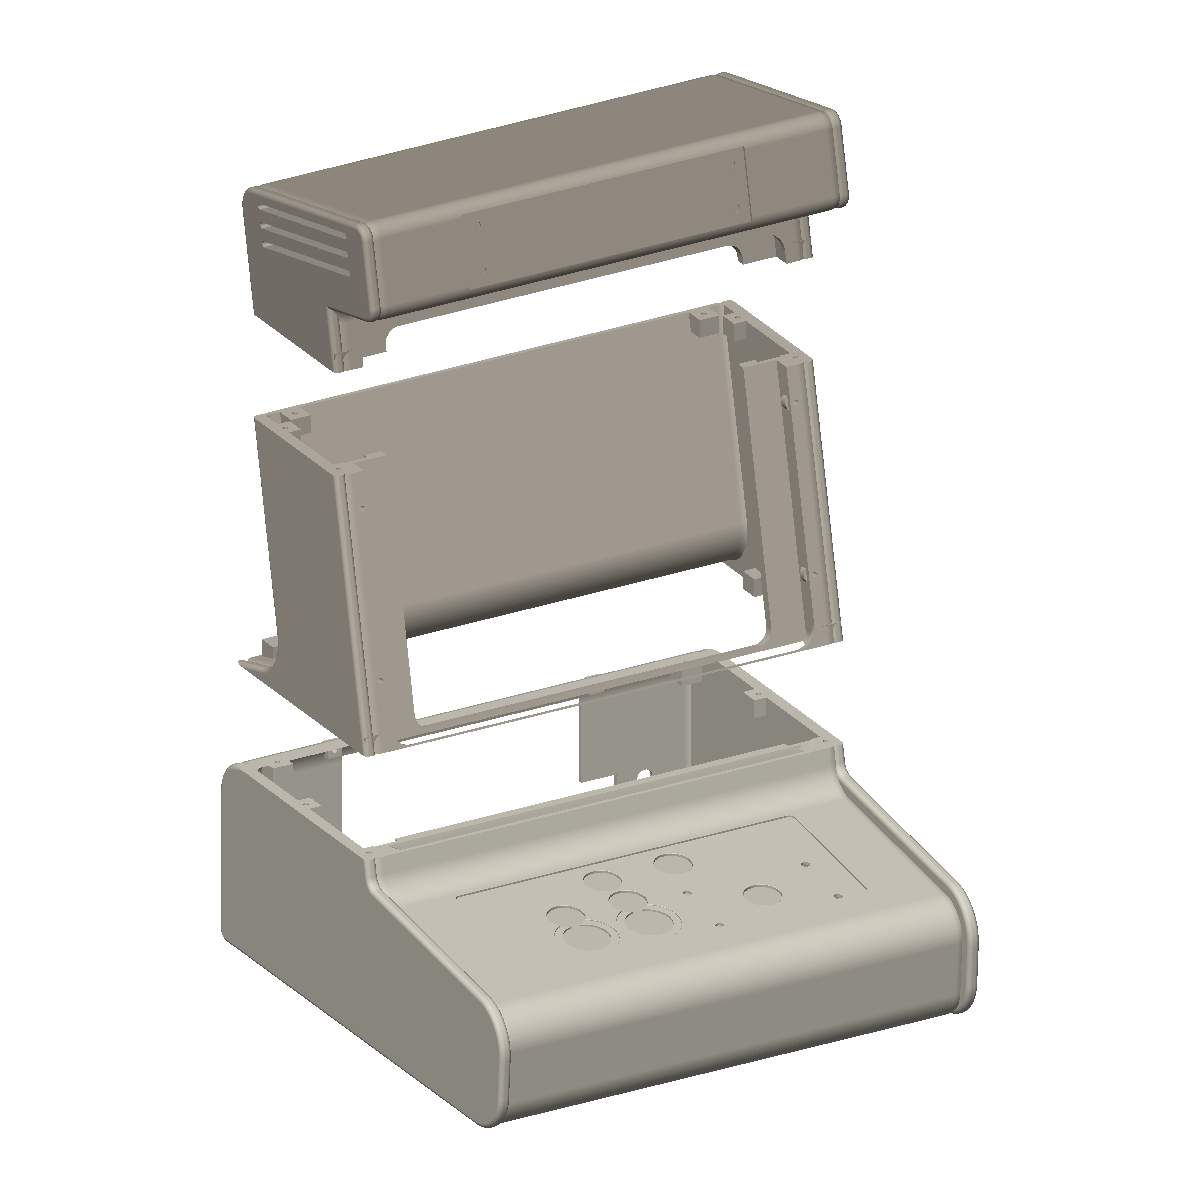
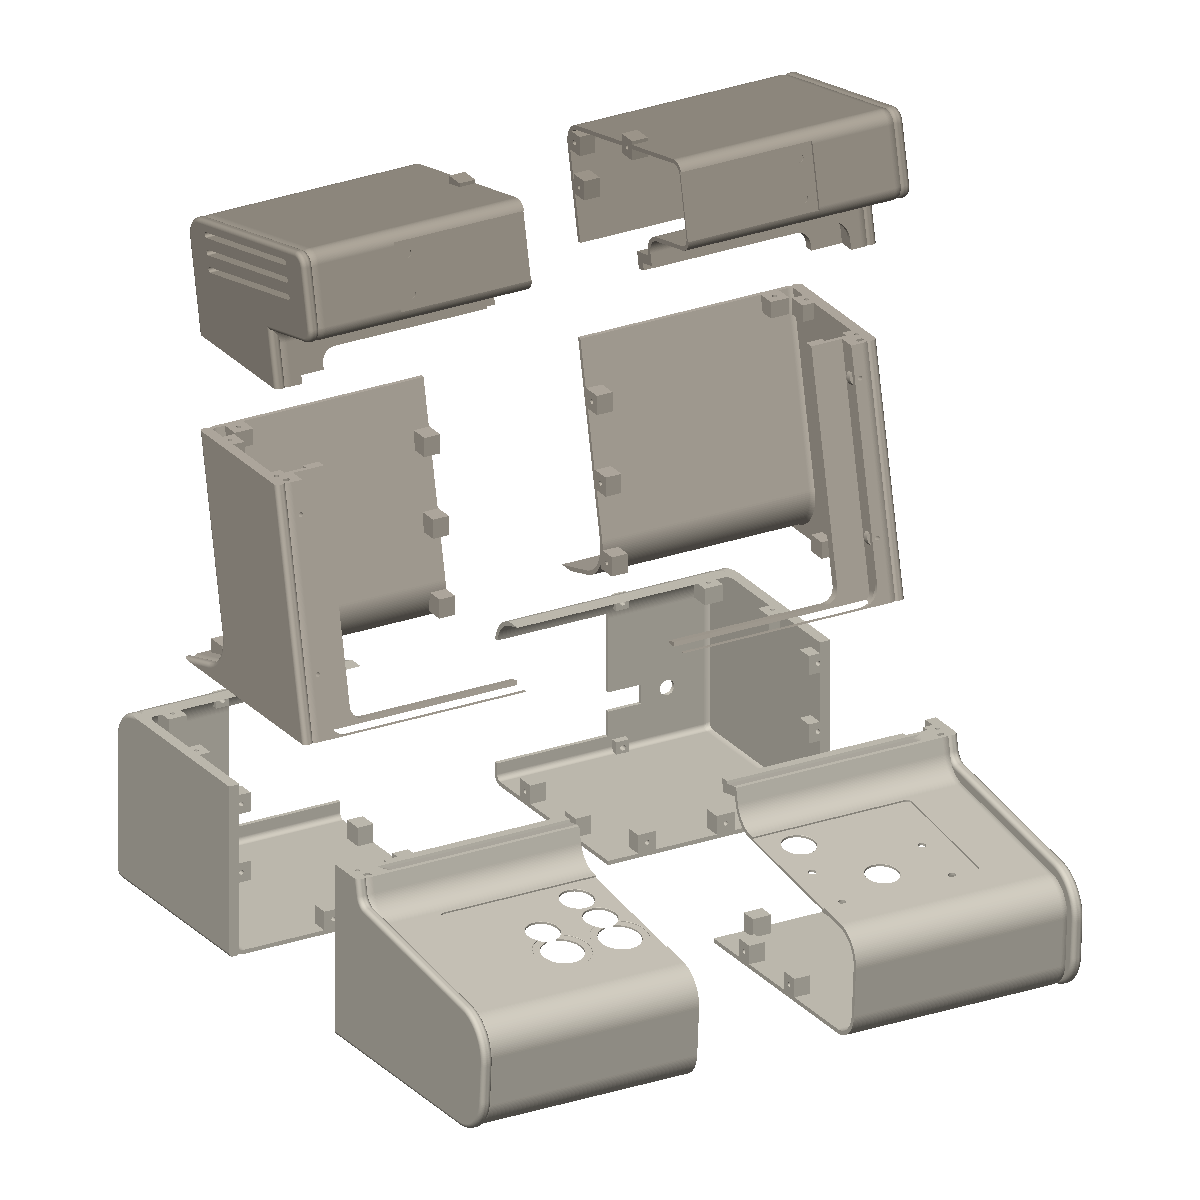
hardware iter 35: 8-part split for 256mm beds (PETG prototype path)
- parts.py: split_vertical on + new base front/back split (y=190) =>
  4 base quarters + mid/hood halves, all <=197mm, fit 256mm beds
- joints: boss-block M3 insert joints on the new F/B seam, screws
  driven from the rear hatch; base v-seam joints moved off y=190
- fix: seam-joint placement now probes the real solid for the wall
  inner face (neck-corner blend pulled the actual wall ~2mm inside
  the polyline estimate -> floating blocks, mid_l bodies=2)
- BOM: prototype print order section (parts, PETG, fastener count)

Changed region(s): [[0.0925, 0.0617, 0.925, 0.9558], [0.4625, 0.8942, 0.555, 0.925], [0.3392, 0.8942, 0.37, 0.925]]

diff --git a/hardware/parts.py b/hardware/parts.py
@@ -5,6 +5,9 @@ Split scheme (all parametric):
     HOOD (split_z_hood..top)
   - optional vertical split at x=0 => 6 parts that fit a 360 mm bed
     (full-width parts need a >=530 mm machine or the sheet-metal path)
+  - optional front/back split of the base at y=split_y_base => 8 parts that
+    fit a 256 mm bed (Bambu/Prusa class): base quarters ~170x180x125,
+    mid/hood halves ~170x185x175. Prototype path: PETG anywhere.
 
 Joints: recessed boss block pairs at every seam — M3 heat-set-insert pilot
 (4.2 mm x 7 mm, verified dims) in one half, M3 clearance through-hole in the
@@ -29,6 +32,7 @@ from build123d import (
     Pos,
     RectangleRounded,
     Rot,
+    Sphere,
     export_step,
     export_stl,
     extrude,
@@ -41,12 +45,16 @@ from render import render_parts
 PARTS_DIR = OUT_DIR / "parts"
 
 SPLIT = {
-    "split_vertical": False,       # 340 mm parts fit a 360 bed whole
+    "split_vertical": True,        # x=0 split: halves fit modest beds
+    "split_base_y": True,          # front/back split of the base layer =>
+                                   # 8 parts, all fit a 256 mm bed
+    "split_y_base": 190.0,         # base front|rear seam (clear of the ribs,
+                                   # which end ~25 mm behind the control deck)
     "split_z_deck": 125.0,         # base | face-column seam (clear of the
                                    # R20 seam blend; 105 left a wall sliver)
     "split_z_hood": 300.0,         # face-column | hood seam (below the chin and
                                    # the hood floor / back-wall junction ~304)
-    "print_bed": 360.0,            # mm, for the fit check
+    "print_bed": 256.0,            # mm, for the fit check (Bambu/Prusa class)
     # --- joints -----------------------------------------------------------
     "joint_block": 14.0,           # mm boss cross-section (Y/Z or X faces)
     "joint_depth": 12.0,           # mm boss depth from the seam face
@@ -67,10 +75,16 @@ SPLIT = {
                          (145, "rear"), (-162, "front"), (162, "front")],
     # vertical-seam joint positions (y, z); y=None = auto (rear wall at z)
     # (used only when split_vertical is on; names must NOT collide with the
-    # horizontal-seam lists above)
-    "base_v_seam_joints": [(120, 9.5), (190, 9.5), (260, 9.5)],   # into floor
+    # horizontal-seam lists above). Base entries must stay clear of
+    # split_y_base so the F/B seam never slices a block.
+    "base_v_seam_joints": [(90, 9.5), (150, 9.5), (240, 9.5), (300, 9.5)],
     "mid_v_seam_joints": [(None, 150), (None, 205), (None, 260)],
     "hood_v_seam_joints": [(None, 340), (None, 370), (None, 395)],
+    # base front/back seam at y=split_y_base: (|x|, z) positions, mirrored
+    # per L/R half. z=9.5 blocks fuse into the floor, x=160.5 blocks embed
+    # 0.5 mm into the side walls. Screws drive from the rear (hatch access)
+    # into inserts in the front quarters.
+    "base_y_seam_joints": [(30, 9.5), (90, 9.5), (160.5, 60), (160.5, 110)],
 }
 
 # --- CRT funnel insert + trim ring (printed part, black PETG) --------------
@@ -205,30 +219,50 @@ def _wall_y(z, pick):
     return best
 
 
-def rear_joint_y(z):
-    """Y for a seam-joint block fusing into the rear wall at height z:
-    in past the wall and half a block, embedding ~0.5 mm (the neck taper
-    moves the rear wall; static y values end up in air)."""
-    return _wall_y(z, max) - CAB["wall"] - SPLIT["joint_block"] / 2 + 0.5
+def _probe_mat(solid, x, y, z):
+    inter = solid & Pos(x, y, z) * Sphere(0.05)
+    return bool(inter) and sum(s.volume for s in inter.solids()) > 0
 
 
-def front_joint_y(z):
-    """Same against the front (display-face) wall — the face y at a given
-    z moves with display_tilt_deg."""
-    return _wall_y(z, min) + CAB["wall"] + SPLIT["joint_block"] / 2 - 0.5
+def _wall_face_y(solid, x, z, pick):
+    """Inner-face y of the rear (pick=max) or front (pick=min) wall at
+    (x, z): profile estimate refined by probing the real solid. Slanted-corner
+    blends (neck, chin) pull the actual wall in a couple mm from the polyline
+    offset, which floated joint blocks when split_vertical was enabled."""
+    est = _wall_y(z, pick) + (-CAB["wall"] if pick is max else CAB["wall"])
+    rng = [est - 4.0 + i * 0.5 for i in range(17)]
+    if pick is min:  # front wall: scan from the cavity (higher y) downward
+        rng = rng[::-1]
+    prev = False
+    for y in rng:
+        hit = _probe_mat(solid, x, y, z)
+        if hit and not prev:
+            return y
+        prev = hit
+    return est  # fallback; the bodies==1 check catches a floating block
 
 
-def _resolve(positions, z=None):
-    """Fill in auto entries: "rear"/"front" derive y from the wall at the
-    seam z (horizontal seams) or the joint's own z (vertical seams)."""
+def rear_joint_y(solid, x, z):
+    """Seam-joint block center y fusing 0.5 mm into the rear wall at (x, z)."""
+    return _wall_face_y(solid, x, z, max) + 0.5 - SPLIT["joint_block"] / 2
+
+
+def front_joint_y(solid, x, z):
+    """Same against the front (display-face) wall."""
+    return _wall_face_y(solid, x, z, min) - 0.5 + SPLIT["joint_block"] / 2
+
+
+def _resolve(positions, solid, z=None):
+    """Fill in auto entries: "rear"/"front" (horizontal seams) or None
+    (vertical seams) derive y from the probed wall face."""
     out = []
     for a, b in positions:
         if z is not None:  # horizontal seam, (x, y)
-            y = (rear_joint_y(z) if b == "rear"
-                 else front_joint_y(z) if b == "front" else b)
+            y = (rear_joint_y(solid, a, z) if b == "rear"
+                 else front_joint_y(solid, a, z) if b == "front" else b)
             out.append((a, y))
         else:              # vertical seam, (y, z)
-            y = rear_joint_y(b) if a is None else a
+            y = rear_joint_y(solid, 0, b) if a is None else a
             out.append((y, b))
     return out
 
@@ -274,6 +308,32 @@ def v_seam_joints(left, right, positions):
     return left, right
 
 
+def y_seam_joints(front, back, y_split, positions):
+    """Boss-block joints across the y=y_split seam of the base, screws
+    horizontal along Y: front part gets the heat-set-insert pilot, back part
+    the clearance hole (screws driven from the rear hatch opening).
+    positions are (x, z) with signed x (call once per L/R half)."""
+    p = SPLIT
+    b, d = p["joint_block"], p["joint_depth"]
+    for x, z in positions:
+        front += Pos(x, y_split - d / 2, z) * Box(b, d, b)
+        back += Pos(x, y_split + d / 2, z) * Box(b, d, b)
+        front -= Pos(x, y_split - p["insert_hole_depth"] / 2, z) * Rot(
+            90, 0, 0
+        ) * Cylinder(radius=p["insert_hole_dia"] / 2,
+                     height=p["insert_hole_depth"])
+        back -= Pos(x, y_split + d / 2, z) * Rot(90, 0, 0) * Cylinder(
+            radius=p["screw_hole_dia"] / 2, height=d + 2
+        )
+    return front, back
+
+
+def y_slice_box(y0, y1):
+    return Pos(0, (y0 + y1) / 2, 200) * Box(
+        CAB["cabinet_width"] + 100, y1 - y0, 600
+    )
+
+
 def build_parts():
     p = SPLIT
     solid = build_cabinet()
@@ -284,8 +344,10 @@ def build_parts():
     mid = solid & slice_box(zd, zh, -w - 50, w + 50)
     hood = solid & slice_box(zh, CAB["cabinet_depth_base"] + 500, -w - 50, w + 50)
 
-    base, mid = h_seam_joints(base, mid, zd, _resolve(p["deck_seam_joints"], zd))
-    mid, hood = h_seam_joints(mid, hood, zh, _resolve(p["hood_seam_joints"], zh))
+    base, mid = h_seam_joints(
+        base, mid, zd, _resolve(p["deck_seam_joints"], solid, zd))
+    mid, hood = h_seam_joints(
+        mid, hood, zh, _resolve(p["hood_seam_joints"], solid, zh))
 
     layers = [("base", base), ("mid", mid), ("hood", hood)]
     v_joints = {
@@ -295,15 +357,29 @@ def build_parts():
     }
 
     parts = {}
+    yb = p["split_y_base"]
+    depth = CAB["cabinet_depth_base"]
     for name, layer in layers:
         if p["split_vertical"]:
             left = layer & slice_box(-50, 500, -w - 50, 0)
             right = layer & slice_box(-50, 500, 0, w + 50)
-            left, right = v_seam_joints(left, right, _resolve(v_joints[name]))
-            parts[f"{name}_l"] = left
-            parts[f"{name}_r"] = right
+            left, right = v_seam_joints(left, right, _resolve(v_joints[name], solid))
+            halves = [("l", -1, left), ("r", 1, right)]
         else:
-            parts[name] = layer
+            halves = [("", 0, layer)]
+        for tag, sx, half in halves:
+            suffix = f"_{tag}" if tag else ""
+            if name == "base" and p["split_base_y"]:
+                front = half & y_slice_box(-50, yb)
+                back = half & y_slice_box(yb, depth + 50)
+                front, back = y_seam_joints(
+                    front, back, yb,
+                    [(sx * ax, z) for ax, z in p["base_y_seam_joints"]],
+                )
+                parts[f"base_f{suffix}"] = front
+                parts[f"base_b{suffix}"] = back
+            else:
+                parts[f"{name}{suffix}"] = half
     return parts
 
 
@@ -415,14 +491,16 @@ def main():
     export_step(bezel, str(PARTS_DIR / "crt_bezel.step"))
     export_stl(bezel, str(PARTS_DIR / "crt_bezel.stl"))
 
-    # exploded view: layers separated in Z, halves in X
+    # exploded view: layers separated in Z, halves in X, base quarters in Y
     shades = [(0.87, 0.85, 0.80), (0.80, 0.77, 0.72), (0.72, 0.69, 0.64)]
+    order = {"base": 0, "mid": 1, "hood": 2}
     exploded = []
-    for i, (name, part) in enumerate(parts.items()):
-        layer_i = i // 2 if SPLIT["split_vertical"] else i
+    for name, part in parts.items():
+        layer_i = order[name.split("_")[0]]
         dx = -60 if name.endswith("_l") else (60 if name.endswith("_r") else 0)
+        dy = -70 if "_f_" in name else (70 if "_b_" in name else 0)
         dz = 70 * layer_i
-        exploded.append((Pos(dx, 0, dz) * part, shades[layer_i]))
+        exploded.append((Pos(dx, dy, dz) * part, shades[layer_i]))
     render_parts(
         exploded, OUT_DIR, prefix="exploded", size=1200,
         views={"iso": (25, -60, None), "front": (0, -90, None)},

diff --git a/docs/HARDWARE-BOM.md b/docs/HARDWARE-BOM.md
@@ -105,6 +105,33 @@ strip — **+$30**. Your future self at a bar install will thank you.
   8 buttons, one encoder vs the old 2P BOM).
 - Enclosure fab on top: ~$150–300.
 
+## Prototype print order (PETG, iteration 35 split)
+
+The shell now splits into **8 parts that each fit a 256 mm bed**
+(Bambu/Prusa class) plus 2 small display parts — no large-format machine
+needed. Upload the STEP files from `hardware/out/parts/` to any print
+service (Craftcloud, JLC3DP, PCBWay) or a local printer; no drawings
+needed at this stage.
+
+| Part | Dims (mm) | Notes |
+| --- | --- | --- |
+| `base_f_l` / `base_f_r` | 170×197×125 | control-deck quarters (buttons/JLF holes) |
+| `base_b_l` / `base_b_r` | 170×150×125 | rear quarters (hatch, jacks, feet) |
+| `mid_l` / `mid_r` | 170×161×175 | display column halves (CRT dish) |
+| `hood_l` / `hood_r` | 170×161×111 | marquee hood halves (speaker slots, vents) |
+| `retainer_frame` | 319×229×3 | panel clamp, print flat |
+| `crt_bezel` | 316×210×13.5 | black PETG, print face-down |
+
+- Material: **PETG**, 4+ walls / ~25% infill for the shell parts (insert
+  bosses need meat). Black for the bezel; body color = prototype's choice.
+- Print-service quotes for this volume (~2,470 cm³ model volume, much less
+  as printed shells): expect roughly **$150–400** FDM.
+- Fasteners for assembly: **~50× M3 heat-set inserts** (ruthex RX-M3x5.7
+  class, 4.0–4.2 mm printed holes are already in the parts) and **~50×
+  M3×8–10 button/socket-head screws**. Insert count: 6+6 horizontal seams,
+  4+3+3 vertical seams, 8 base F/B seam, 4 bezel, 4 retainer, 4 hatch,
+  plus speaker/board mounts.
+
 ## Sourcing order (de-risked)
 
 1. **Display + compute first** — they set enclosure dimensions and mounting.

diff --git a/hardware/design-notes.md b/hardware/design-notes.md
@@ -684,3 +684,23 @@ switch, PSU, inserts, feet) — then an assembled render with the enclosure.
   base colors ~1 stop under gray studio light (over-brighten mints/brasses);
   dark controls vanish on a dark plate — invert for legibility; creams wash
   to white unless pushed deeper than first guess.
+- Iteration 35 (2026-08-24, archived `iter-040`, assembly `asm-036`):
+  **prototype-print split** — the goal was parts any 256 mm bed (Bambu/Prusa
+  class) can print, so the enclosure can come from a local printer or any
+  cheap service instead of a large-format machine. parts.py now:
+  split_vertical=True (x=0 seam, all 3 layers) + new split_base_y=True
+  (base quarters at y=190, clear of the deck ribs). Result: 8 shell parts —
+  base_f/b_l/r 170x197/150x125, mid_l/r 170x161x175, hood_l/r 170x161x111 —
+  + retainer frame + CRT bezel; all valid, 1 body, zero seam overlap
+  (21 pairs checked). Joints: same hidden boss-block scheme everywhere
+  (M3 heat-set pilot one side, M3 clearance the other); the base F/B seam
+  screws drive from the rear hatch into the front quarters (4 blocks/side:
+  2 floor-fused at z=9.5, 2 side-wall-fused at x=+/-160.5, z=60/110).
+  Bug worth remembering: enabling split_vertical exposed floating mid/hood
+  joint blocks — _wall_y() reads the theoretical polyline, but the
+  neck-corner blend pulls the real rear wall ~2 mm inside it, so
+  profile-minus-wall placement missed the material entirely. Fix:
+  _wall_face_y() probes the actual solid (0.5 mm y-scan around the profile
+  estimate) and seats blocks on the probed inner face. BOM gained a
+  "Prototype print order" section: part list, PETG guidance, ~50 M3
+  inserts + screws fastener count. Sheet-metal path (panels.py) unchanged.
